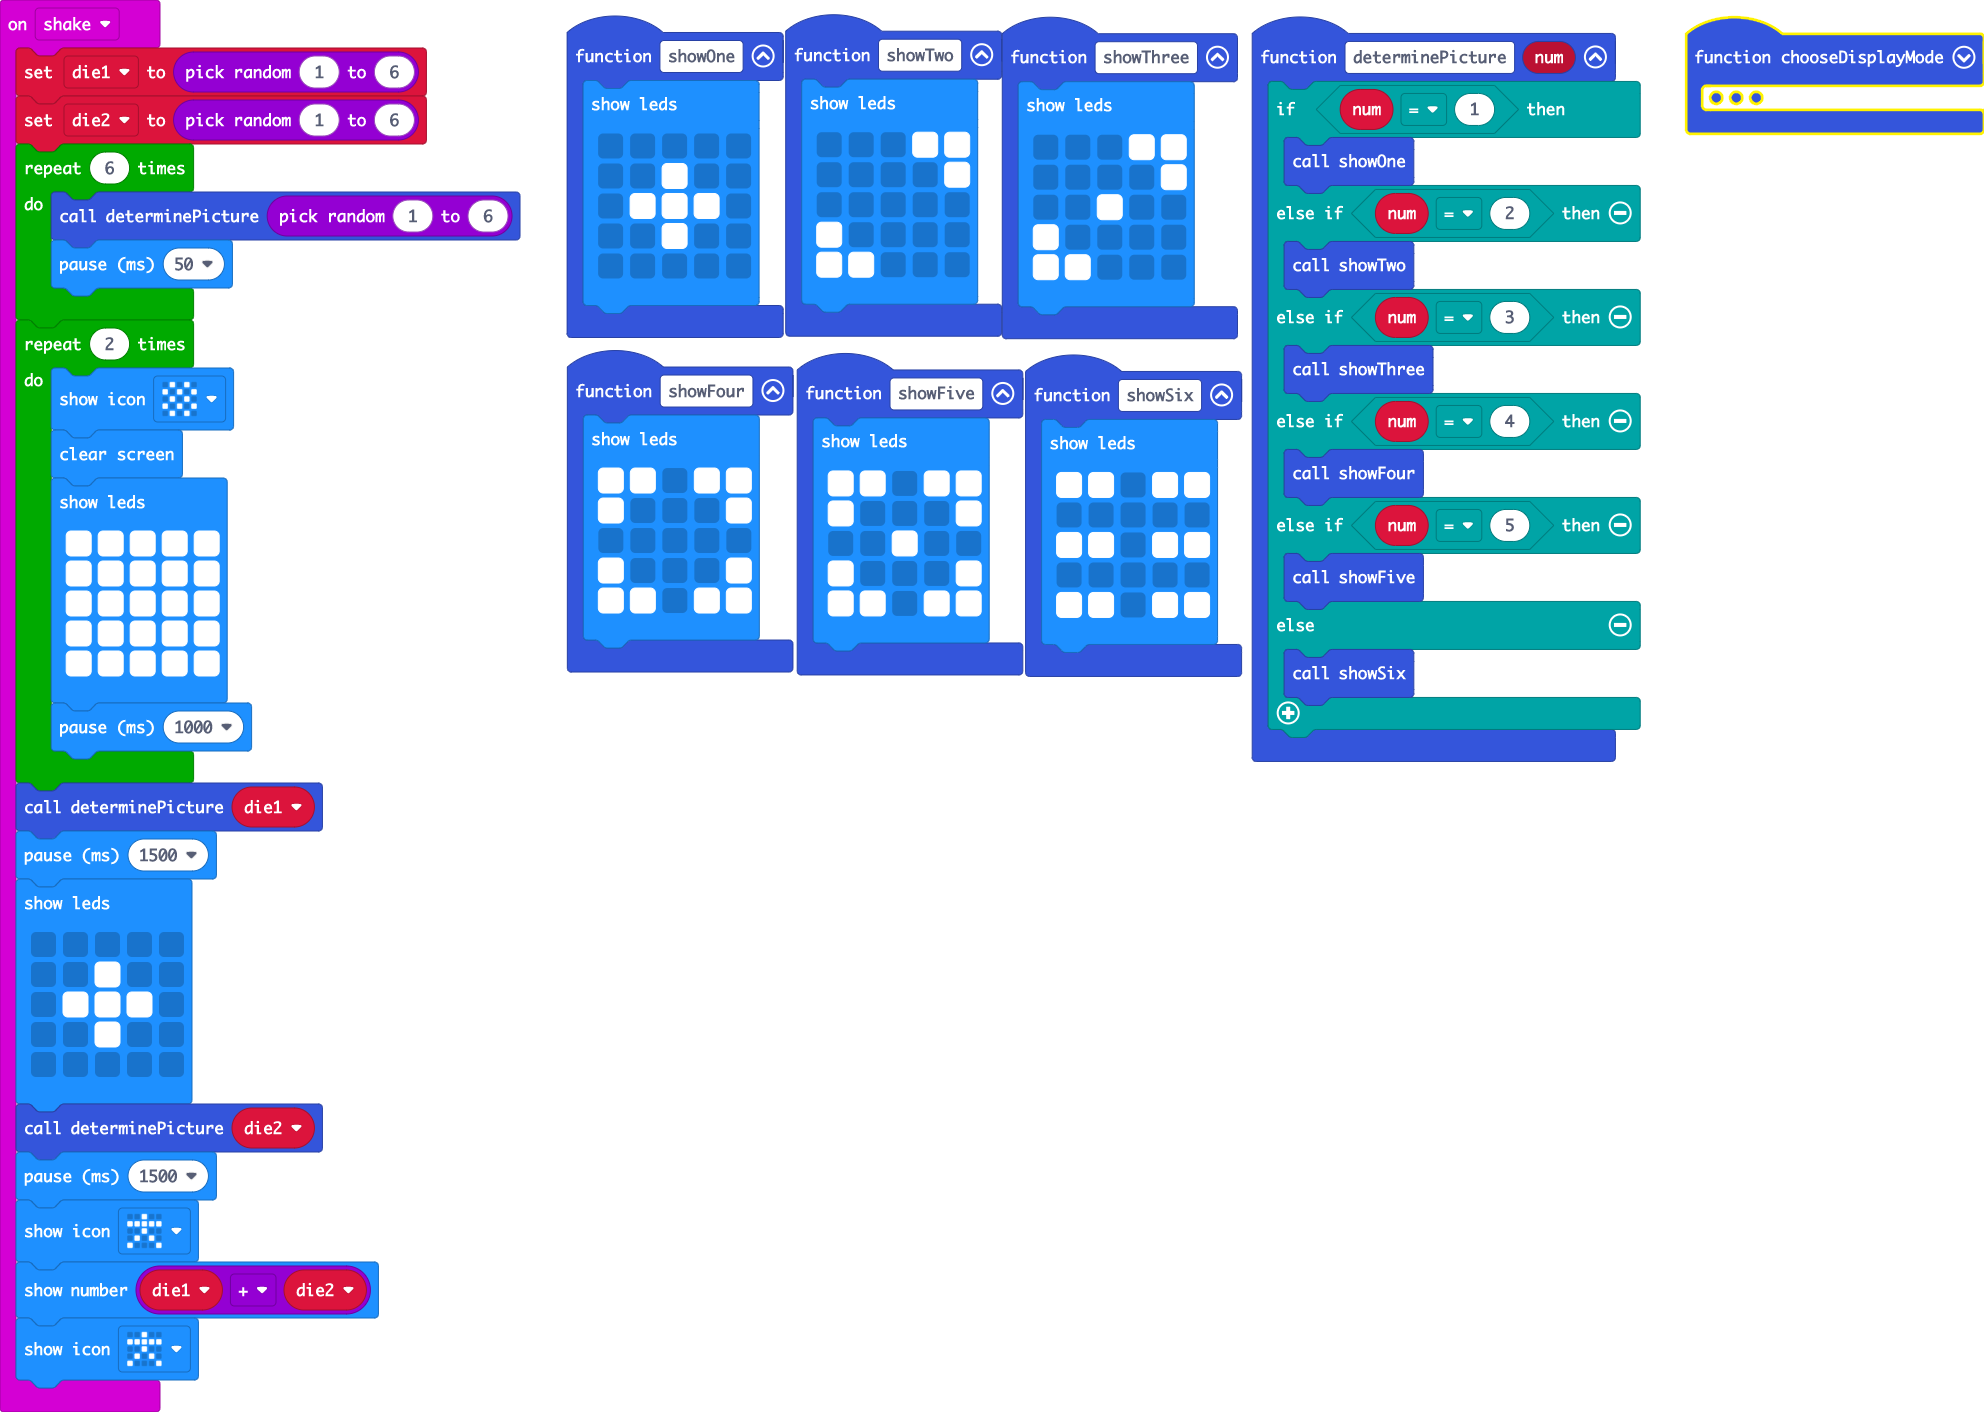
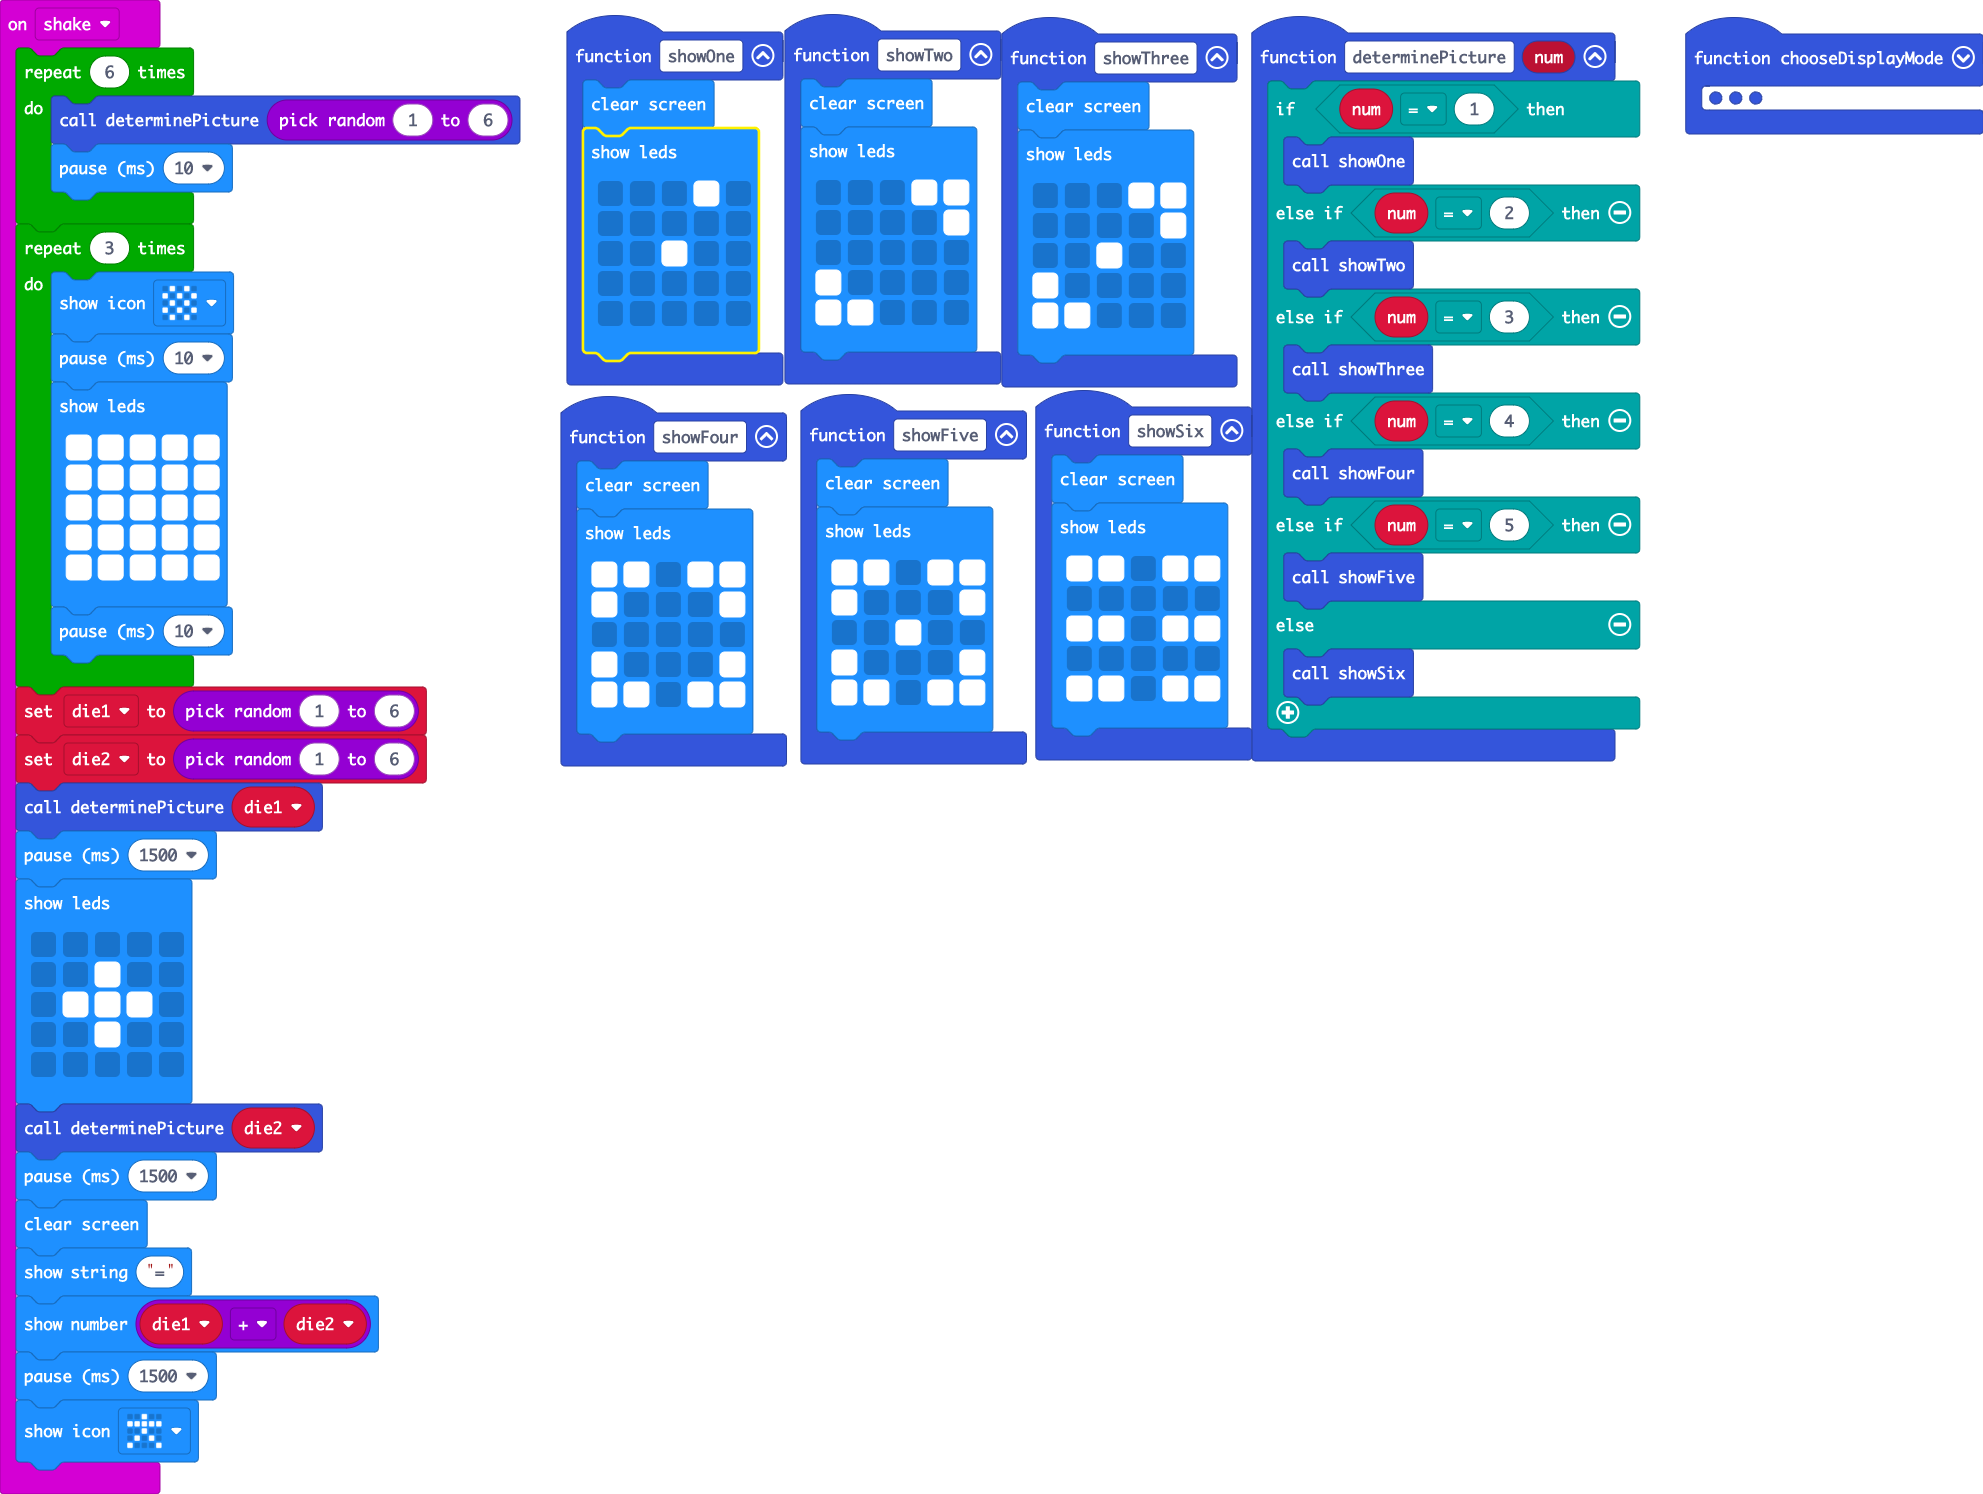
Update main.blocks, main.ts

Changed region(s): [[0.0, 0.0, 1.0, 0.9972]]

diff --git a/main.ts b/main.ts
@@ -1,6 +1,7 @@
 let die1 = 0
 let die2 = 0
 function showThree () {
+    basic.clearScreen()
     basic.showLeds(`
         . . . # #
         . . . . #
@@ -52,6 +53,7 @@ function determinePicture (num: number) {
     }
 }
 function showTwo () {
+    basic.clearScreen()
     basic.showLeds(`
         . . . # #
         . . . . #
@@ -61,6 +63,7 @@ function showTwo () {
         `)
 }
 function showFour () {
+    basic.clearScreen()
     basic.showLeds(`
         # # . # #
         # . . . #
@@ -70,6 +73,7 @@ function showFour () {
         `)
 }
 function showSix () {
+    basic.clearScreen()
     basic.showLeds(`
         # # . # #
         . . . . .
@@ -79,15 +83,13 @@ function showSix () {
         `)
 }
 input.onGesture(Gesture.Shake, function () {
-    die1 = randint(1, 6)
-    die2 = randint(1, 6)
     for (let index = 0; index < 6; index++) {
         determinePicture(randint(1, 6))
-        basic.pause(50)
+        basic.pause(10)
     }
-    for (let index = 0; index < 2; index++) {
+    for (let index = 0; index < 3; index++) {
         basic.showIcon(IconNames.Chessboard)
-        basic.clearScreen()
+        basic.pause(10)
         basic.showLeds(`
             # # # # #
             # # # # #
@@ -95,8 +97,10 @@ input.onGesture(Gesture.Shake, function () {
             # # # # #
             # # # # #
             `)
-        basic.pause(1000)
+        basic.pause(10)
     }
+    die1 = randint(1, 6)
+    die2 = randint(1, 6)
     determinePicture(die1)
     basic.pause(1500)
     basic.showLeds(`
@@ -108,20 +112,24 @@ input.onGesture(Gesture.Shake, function () {
         `)
     determinePicture(die2)
     basic.pause(1500)
-    basic.showIcon(IconNames.StickFigure)
+    basic.clearScreen()
+    basic.showString("=")
     basic.showNumber(die1 + die2)
+    basic.pause(1500)
     basic.showIcon(IconNames.StickFigure)
 })
 function showOne () {
+    basic.clearScreen()
     basic.showLeds(`
+        . . . # .
         . . . . .
         . . # . .
-        . # # # .
-        . . # . .
+        . . . . .
         . . . . .
         `)
 }
 function showFive () {
+    basic.clearScreen()
     basic.showLeds(`
         # # . # #
         # . . . #
